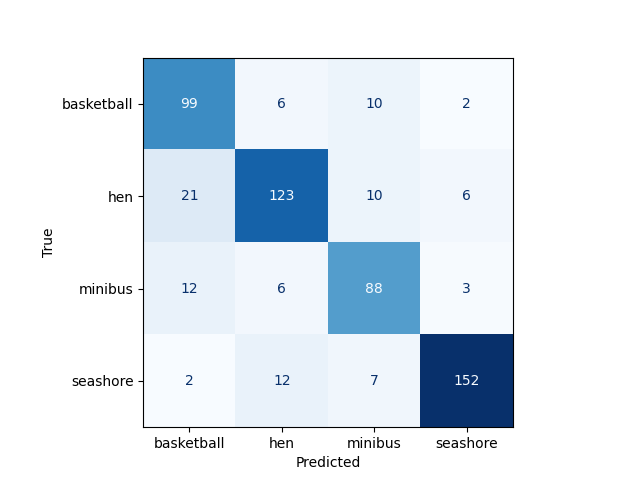
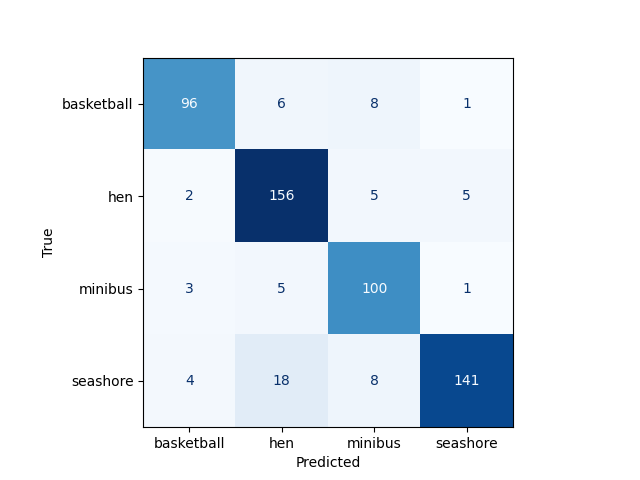
Create Test and Train scripts.

diff --git a/train.py b/train.py
@@ -1,0 +1,305 @@
+from torch.utils.data import DataLoader
+
+import torch
+import torch.nn as nn
+import torchvision.transforms as transforms
+from CustomDataset import CustomDataset
+
+from sklearn.metrics import ConfusionMatrixDisplay, confusion_matrix
+
+
+import torchsummary
+from torch.utils.tensorboard import SummaryWriter
+import torch.profiler
+
+
+writer = SummaryWriter()
+
+# prof = torch.profiler.profile(
+#         schedule=torch.profiler.schedule(wait=1, warmup=1, active=3, repeat=2),
+#         on_trace_ready=torch.profiler.tensorboard_trace_handler('runs/profiler/'),
+#         record_shapes=True,
+#         with_stack=True,
+#         use_cuda=True)
+
+transform = transforms.Compose([
+    transforms.Resize((224, 224)),
+    transforms.RandomHorizontalFlip(),
+    transforms.RandomVerticalFlip(),
+    transforms.RandomRotation(15),
+    transforms.ColorJitter(brightness=0.1, contrast=0.1, saturation=0.1, hue=0.1),
+    transforms.ToTensor(),
+    transforms.Normalize((0.5, 0.5, 0.5), (0.5, 0.5, 0.5)),
+])
+dataset = CustomDataset(root_dir='Datasets/imagenet_images', transform=transform)
+
+print('len(dataset))',len(dataset))
+
+class_to_idx = dataset.class_to_idx
+
+conf_matrix_labels = class_to_idx.keys()
+
+batch_size = 64
+# dataloader = DataLoader(dataset, batch_size=batch_size, shuffle=True)
+
+
+# train validate test split
+
+
+train_size = int(0.8 * len(dataset))
+test_size = len(dataset) - train_size
+train_dataset, test_dataset = torch.utils.data.random_split(dataset, [train_size, test_size])
+
+
+val_size = train_size - int(0.8 *train_size )
+train_size = train_size - val_size
+
+train_dataset,val_dataset = torch.utils.data.random_split(train_dataset,[train_size,val_size])
+
+print('len(train_dataset))',len(train_dataset))
+
+print('len(val_dataset))',len(val_dataset))
+
+print('len(test_dataset))',len(test_dataset))
+
+train_dataloader = DataLoader(train_dataset, batch_size=batch_size, shuffle=True)
+val_dataloader = DataLoader(val_dataset, batch_size=batch_size, shuffle=True)
+test_dataloader = DataLoader(test_dataset, batch_size=batch_size, shuffle=True)
+
+
+
+# model
+
+class CustomCNN(nn.Module):
+    def __init__(self,num_classes = 4):
+        super(CustomCNN, self).__init__()
+        self.conv1 = nn.Conv2d(3, 64, kernel_size=3, padding=1)
+        self.relu1 = nn.ReLU(inplace=True)
+        self.pool1 = nn.MaxPool2d(kernel_size=2, stride=2)
+
+        self.conv2 = nn.Conv2d(64, 128, kernel_size=3, padding=1)
+        self.relu2 = nn.ReLU(inplace=True)
+        self.pool2 = nn.MaxPool2d(kernel_size=2, stride=2)
+
+        self.conv3 = nn.Conv2d(128, 256, kernel_size=3, padding=1)
+        self.relu3 = nn.ReLU(inplace=True)
+        self.pool3 = nn.MaxPool2d(kernel_size=2, stride=2)
+
+        self.fc1 = nn.Linear(256 * 28 * 28, 512)
+        self.relu4 = nn.ReLU(inplace=True)
+        self.fc2 = nn.Linear(512, num_classes)
+
+    def forward(self, x):
+        x = self.pool1(self.relu1(self.conv1(x)))
+        x = self.pool2(self.relu2(self.conv2(x)))
+        x = self.pool3(self.relu3(self.conv3(x)))
+
+        x = x.view(-1, 256 * 28 * 28)  # Flatten for fully connected layers
+        x = self.relu4(self.fc1(x))
+        x = self.fc2(x)
+
+        return x
+
+
+
+model = CustomCNN()
+device = 'cuda:0' if torch.cuda.is_available() else 'cpu'
+print(device)
+model.to(device)
+
+torchsummary.summary(model, input_size=(3, 224, 224))
+PATH = 'best_model.pth'
+
+
+# loss function and optimizer
+
+criterion = nn.CrossEntropyLoss()
+# optimizer = torch.optim.SGD(model.parameters(), lr=0.001, momentum=0.9)
+optimizer = torch.optim.Adam(model.parameters(), lr=0.001)
+
+
+# training loop
+
+print('start training')
+
+epochs = 30
+best_val_loss = 10.0
+
+for epoch in range(epochs):
+    model.train()
+    running_loss = 0.0
+    correct_train = 0
+    total_train = 0
+    for i, data in enumerate(train_dataloader, 0):
+        inputs, labels = data
+        inputs, labels = inputs.to(device), labels.to(device)
+        optimizer.zero_grad()
+        outputs = model(inputs)
+        loss = criterion(outputs, labels)
+        loss.backward()
+        optimizer.step()
+        running_loss += loss.item()
+        _, predicted = torch.max(outputs.data, 1)
+        total_train += labels.size(0)
+        correct_train += (predicted == labels).sum().item()
+
+
+    epoch_train_loss = running_loss / len(train_dataloader)
+    epoch_train_acc = correct_train / total_train
+
+    # Log Training accuracy and loss to TensorBoard
+    writer.add_scalar('Accuracy/train', epoch_train_acc, epoch)
+    writer.add_scalar('Loss/train', epoch_train_loss, epoch)
+    
+    # validation 
+    model.eval()
+    correct = 0
+    total = 0
+    val_loss = 0.0
+    with torch.no_grad():
+        for data in val_dataloader:
+            images, labels = data
+            images, labels = images.to(device), labels.to(device)
+            outputs = model(images)
+            loss = criterion(outputs, labels)
+            val_loss += loss.item()
+            _, predicted = torch.max(outputs.data, 1)
+            total += labels.size(0)
+            correct += (predicted == labels).sum().item()
+    epoch_val_loss = val_loss / len(val_dataloader)
+    epoch_val_acc = correct / total
+
+    print(f'Epoch {epoch+1}/{epochs}, '
+          f'Training Loss: {epoch_train_loss:.4f}, Training Accuracy: {epoch_train_acc:.4f}, '
+          f'Validation Loss: {epoch_val_loss:.4f}, Validation Accuracy: {epoch_val_acc:.4f}')
+    
+    # Log validation accuracy and loss to TensorBoard
+    writer.add_scalar('Accuracy/val', epoch_val_acc, epoch)
+    writer.add_scalar('Loss/val', epoch_val_loss, epoch)
+
+    # Save the model if it has the best validation accuracy
+    if epoch_val_loss < best_val_loss:
+        best_val_loss = epoch_val_loss
+        torch.save(model.state_dict(), PATH)
+
+    # prof.step()
+
+print('Finished Training')
+
+# prof.stop()
+
+
+# loading the model
+
+model = CustomCNN()
+model.to(device)
+model.load_state_dict(torch.load(PATH))
+
+# testing loop
+model.eval()
+correct = 0
+total = 0
+test_loss = 0.0
+all_preds = []
+all_labels = []
+num_classes = 4
+
+
+
+
+# test_dataloader = train_dataloader
+
+with torch.no_grad():
+    for data in test_dataloader:
+        images, labels = data
+        images, labels = images.to(device), labels.to(device)
+        outputs = model(images)
+        loss = criterion(outputs, labels)
+        test_loss += loss.item()
+
+        _, predicted = torch.max(outputs.data, 1)
+        total += labels.size(0)
+        correct += (predicted == labels).sum().item()
+
+        all_preds.extend(predicted.cpu().numpy())
+        all_labels.extend(labels.cpu().numpy())
+
+test_acc = correct / total
+test_loss /= len(test_dataloader)
+
+# Log Testing accuracy and loss to TensorBoard
+
+# writer.add_scalar('Accuracy/test', test_acc, epoch)
+# writer.add_scalar('Loss/test', test_loss, epoch)
+
+print(f'Test Loss: {test_loss:.4f}, Test Accuracy: {test_acc:.4f}')
+
+# class_to_idx = {'ocean': 0, 'person': 1, 'plant': 2, 'sky': 3}
+
+conf_matrix = confusion_matrix(all_labels, all_preds)
+
+# conf_matrix_top_5 = confusion_matrix(all_labels, top_5_all_preds)
+
+cmd_top5 = ConfusionMatrixDisplay(confusion_matrix=conf_matrix, display_labels=conf_matrix_labels)
+cmd_top5.plot(cmap='Blues',colorbar=False)
+cmd_top5.ax_.set(xlabel='Predicted', ylabel='True')
+cmd_top5.figure_.savefig('confusion_matrix.png')
+
+# plt.figure(figsize=(num_classes, num_classes))
+# sns.heatmap(conf_matrix, annot=True, fmt='d', cmap='Blues', cbar=False)
+# plt.xlabel('Predicted')
+# plt.ylabel('True')
+# plt.xticks(range(num_classes), class_to_idx.keys())
+# plt.yticks(range(num_classes), class_to_idx.keys())
+# plt.title('Confusion Matrix')
+# # plt.show()
+# plt.savefig('confusion_matrix.png')
+
+#close writer
+
+writer.close()
+
+
+################
+
+
+
+# Step 1: Load the Model
+# class_index = {'cat': 0, 'dog': 1, 'person': 2, 'plant': 3}
+# def display_results(image_path, confidence, predicted_class):
+#     image = Image.open(image_path)
+#     plt.imshow(image)
+#     plt.title(f'Predicted Class: {predicted_class}, Confidence: {confidence:.2f}')
+#     plt.axis('off')
+#     # plt.show()
+#     plt.savefig('output.png')
+# # Step 2: Preprocess the Image
+# def preprocess_image(image_path):
+#     transform = transforms.Compose([
+#         transforms.Resize((224, 224)),  # Adjust size as needed
+#         transforms.ToTensor(),
+#         transforms.Normalize((0.5, 0.5, 0.5), (0.5, 0.5, 0.5)),
+#     ])
+#     image = Image.open(image_path).convert('RGB')
+#     return transform(image).unsqueeze(0)
+
+# # Step 3: Inference
+# def predict(image_path, model):
+#     image_tensor = preprocess_image(image_path)
+#     image_tensor = image_tensor.to(device)
+#     with torch.no_grad():
+#         output = model(image_tensor)
+
+#     probabilities = torch.nn.functional.softmax(output[0], dim=0)
+#     confidence, predicted_class = torch.max(probabilities, 0)
+
+#     return confidence.item(), predicted_class.item()
+
+# # Step 4: Display the Image and Results
+
+
+# # Replace 'path/to/your/image.jpg' with the path to your image
+# image_path = 'Datasets/imagenet_images/person/3905109798_5c03a89bf8.jpg'
+# confidence, predicted_class = predict(image_path, model)
+# predicted_class = list(class_index.keys())[list(class_index.values()).index(predicted_class)]
+# display_results(image_path, confidence, predicted_class)

diff --git a/test.py b/test.py
@@ -10,8 +10,17 @@ from sklearn.metrics import ConfusionMatrixDisplay, confusion_matrix
 
 import torchsummary
 from torch.utils.tensorboard import SummaryWriter
+import torch.profiler
+
 
 writer = SummaryWriter()
+
+# prof = torch.profiler.profile(
+#         schedule=torch.profiler.schedule(wait=1, warmup=1, active=3, repeat=2),
+#         on_trace_ready=torch.profiler.tensorboard_trace_handler('runs/profiler/'),
+#         record_shapes=True,
+#         with_stack=True,
+#         use_cuda=True)
 
 transform = transforms.Compose([
     transforms.Resize((224, 224)),
@@ -30,7 +39,7 @@ class_to_idx = dataset.class_to_idx
 
 conf_matrix_labels = class_to_idx.keys()
 
-batch_size = 32
+batch_size = 64
 # dataloader = DataLoader(dataset, batch_size=batch_size, shuffle=True)
 
 
@@ -99,7 +108,7 @@ print(device)
 model.to(device)
 
 torchsummary.summary(model, input_size=(3, 224, 224))
-PATH = 'best_model.pth'
+PATH = '30_best_model.pth'
 
 
 # loss function and optimizer
@@ -113,7 +122,7 @@ optimizer = torch.optim.Adam(model.parameters(), lr=0.001)
 
 print('start training')
 
-# epochs = 20
+# epochs = 30
 # best_val_loss = 10.0
 
 # for epoch in range(epochs):
@@ -173,7 +182,11 @@ print('start training')
 #         best_val_loss = epoch_val_loss
 #         torch.save(model.state_dict(), PATH)
 
+#     # prof.step()
+
 print('Finished Training')
+
+# prof.stop()
 
 
 # loading the model

diff --git a/yoloimageclassification.py b/yoloimageclassification.py
@@ -1,9 +1,5 @@
-from ultralytics import YOLO, engine
-from ultralytics.models.yolo.classify import ClassificationPredictor
+from ultralytics import YOLO
 
-import numpy as np
-import matplotlib.pyplot as plt
-import seaborn as sns
 from sklearn.metrics import confusion_matrix, ConfusionMatrixDisplay
 
 

diff --git a/CustomDataset.py b/CustomDataset.py
@@ -1,6 +1,4 @@
-from torchvision import transforms
 from PIL import Image
-import torch
 from torch.utils.data import Dataset
 import os
 

diff --git a/README.md b/README.md
@@ -1,3 +1,4 @@
 # DeepLearningforRobotics
 Deep Learning Projects for Robotics Applications
+
 Project: Comparison of performance between Vanilla CNN( 3 Layers) with YoloV8.
